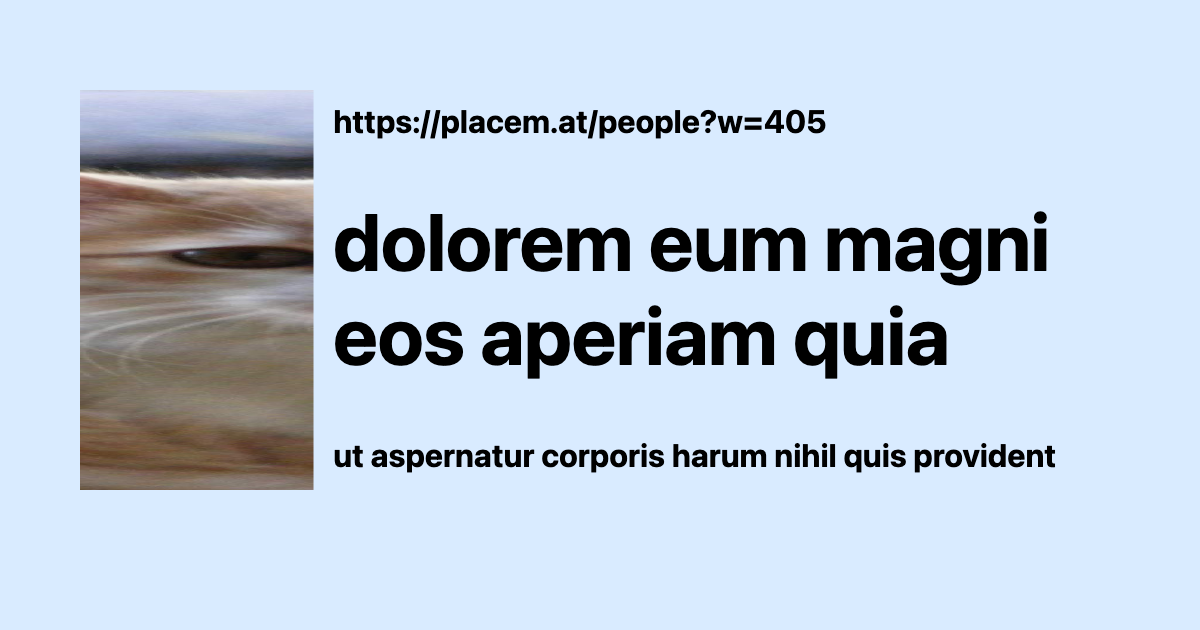
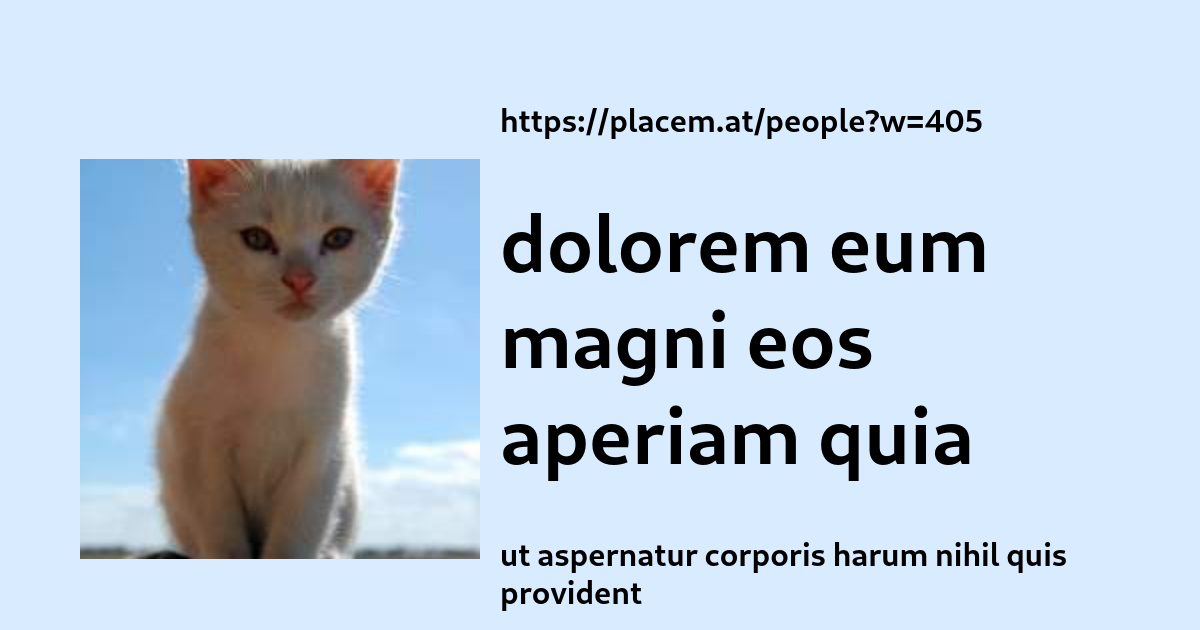
Kinda working

Changed region(s): [[0.0617, 0.1508, 0.8942, 0.9651]]

diff --git a/example-ts/pages/_banner/image.jsx b/example-ts/pages/_banner/image.jsx
@@ -2,11 +2,18 @@
 import { getBannerData, ScreenshotCanvas } from "next-banner";
 
 export default function Banner() {
-  const { title, description, image } = getBannerData({
-    title: "Placeholder title",
-    description: "Placeholder description",
-    image: "https://placekitten.com/200/2001",
-  });
+  // const { title, description, image } = getBannerData({
+  //   title: "Placeholder title",
+  //   description: "Placeholder description",
+  //   image: "https://placekitten.com/200/2001",
+  // });
+
+  const {
+    title = "Placeholder title",
+    description = "Placeholder description",
+    image = "https://placekitten.com/200/200"
+  } = getBannerData();
+
 
   console.log(title);
   console.log(description);
@@ -29,6 +36,7 @@ export default function Banner() {
           marginBlockEnd: "30px",
         }}
       >
+
         <img
           src={image}
           alt=""
@@ -38,8 +46,11 @@ export default function Banner() {
           }}
         />
 
+
+
         <div>
           <h1>{image}</h1>
+
           <h1 style={{ fontSize: "5em" }}>{title}</h1>
           <h2 style={{ fontSize: "2em" }}>{description}</h2>
         </div>

diff --git a/src/client/getBannerData.ts b/src/client/getBannerData.ts
@@ -1,12 +1,23 @@
 import { Data } from "../types";
 
-export default function setBannerData<T>(placeholder: T): T | Data {
+// export default function setBannerData<T>(placeholder: T): T | Data {
+//   if (
+//     typeof window !== "undefined" &&
+//     typeof window.NextBanner !== "undefined"
+//   ) {
+//     return window.NextBanner.data as T | Data;
+//   }
+
+//   return placeholder as T;
+// }
+
+export default function getBannerData(): Data {
   if (
     typeof window !== "undefined" &&
     typeof window.NextBanner !== "undefined"
   ) {
-    return window.NextBanner.data as T | Data;
+    return window.NextBanner.data as Data;
   }
 
-  return placeholder as T;
+  return {} as Data;
 }

diff --git a/src/client/Template.tsx b/src/client/Template.tsx
@@ -13,10 +13,10 @@ export default function Template({
   backgroundColor = "#d9ebff",
   textColor = "#000000",
 }: TemplateProps): JSX.Element {
-  const { title, description } = getBannerData({
-    title: "Placeholder title",
-    description: "Placeholder description",
-  });
+  const {
+    title = "Placeholder title",
+    description = "Placeholder description"
+  } = getBannerData();
 
 
   return (

diff --git a/example-ts/pages/index.tsx b/example-ts/pages/index.tsx
@@ -7,7 +7,7 @@ const Home: NextPage = () => {
   return (
     <div className={styles.container}>
       <Head>
-        <title>Create Next App</title>
+        <title>Hello world!</title>
         <meta name="description" content="Generated by create next app" />
         <link rel="icon" href="/favicon.ico" />
       </Head>

diff --git a/src/cli/operation/extractMeta.ts b/src/cli/operation/extractMeta.ts
@@ -54,7 +54,7 @@ async function extractMeta(
     return (window.NextBanner as Payload) ?? {};
   });
 
-  console.log(payload);
+  // console.log(payload);
 
   await page.close();
 
